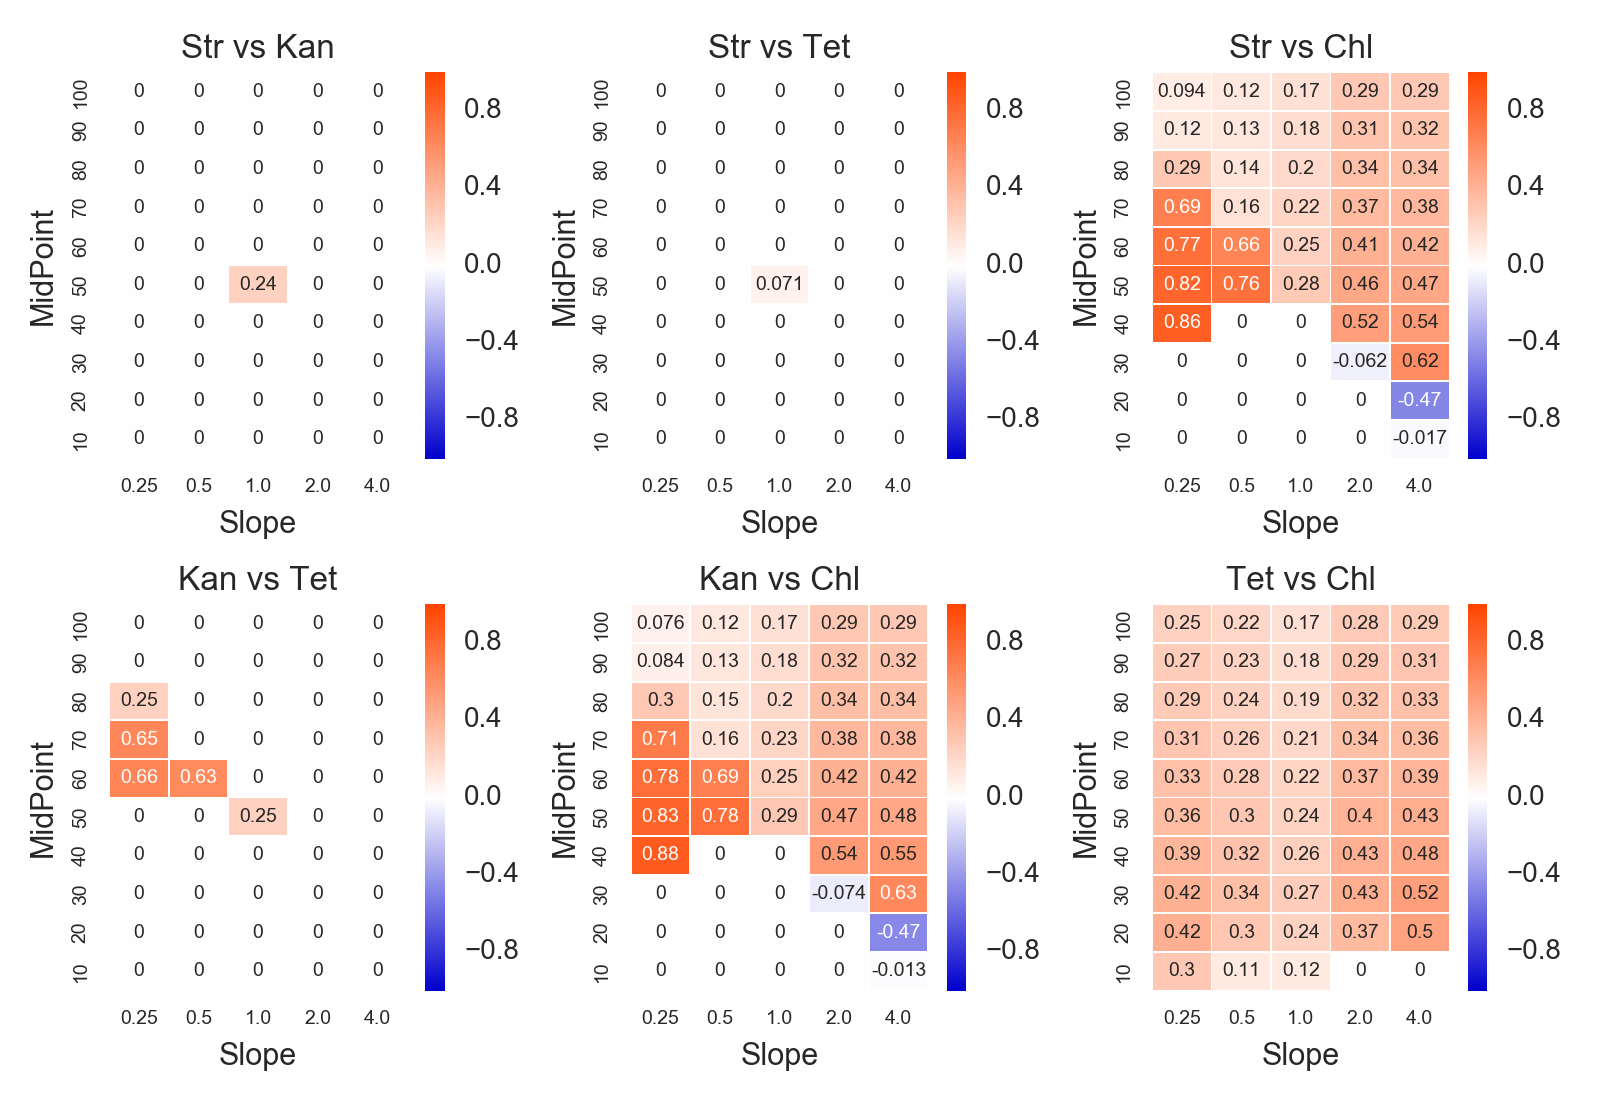
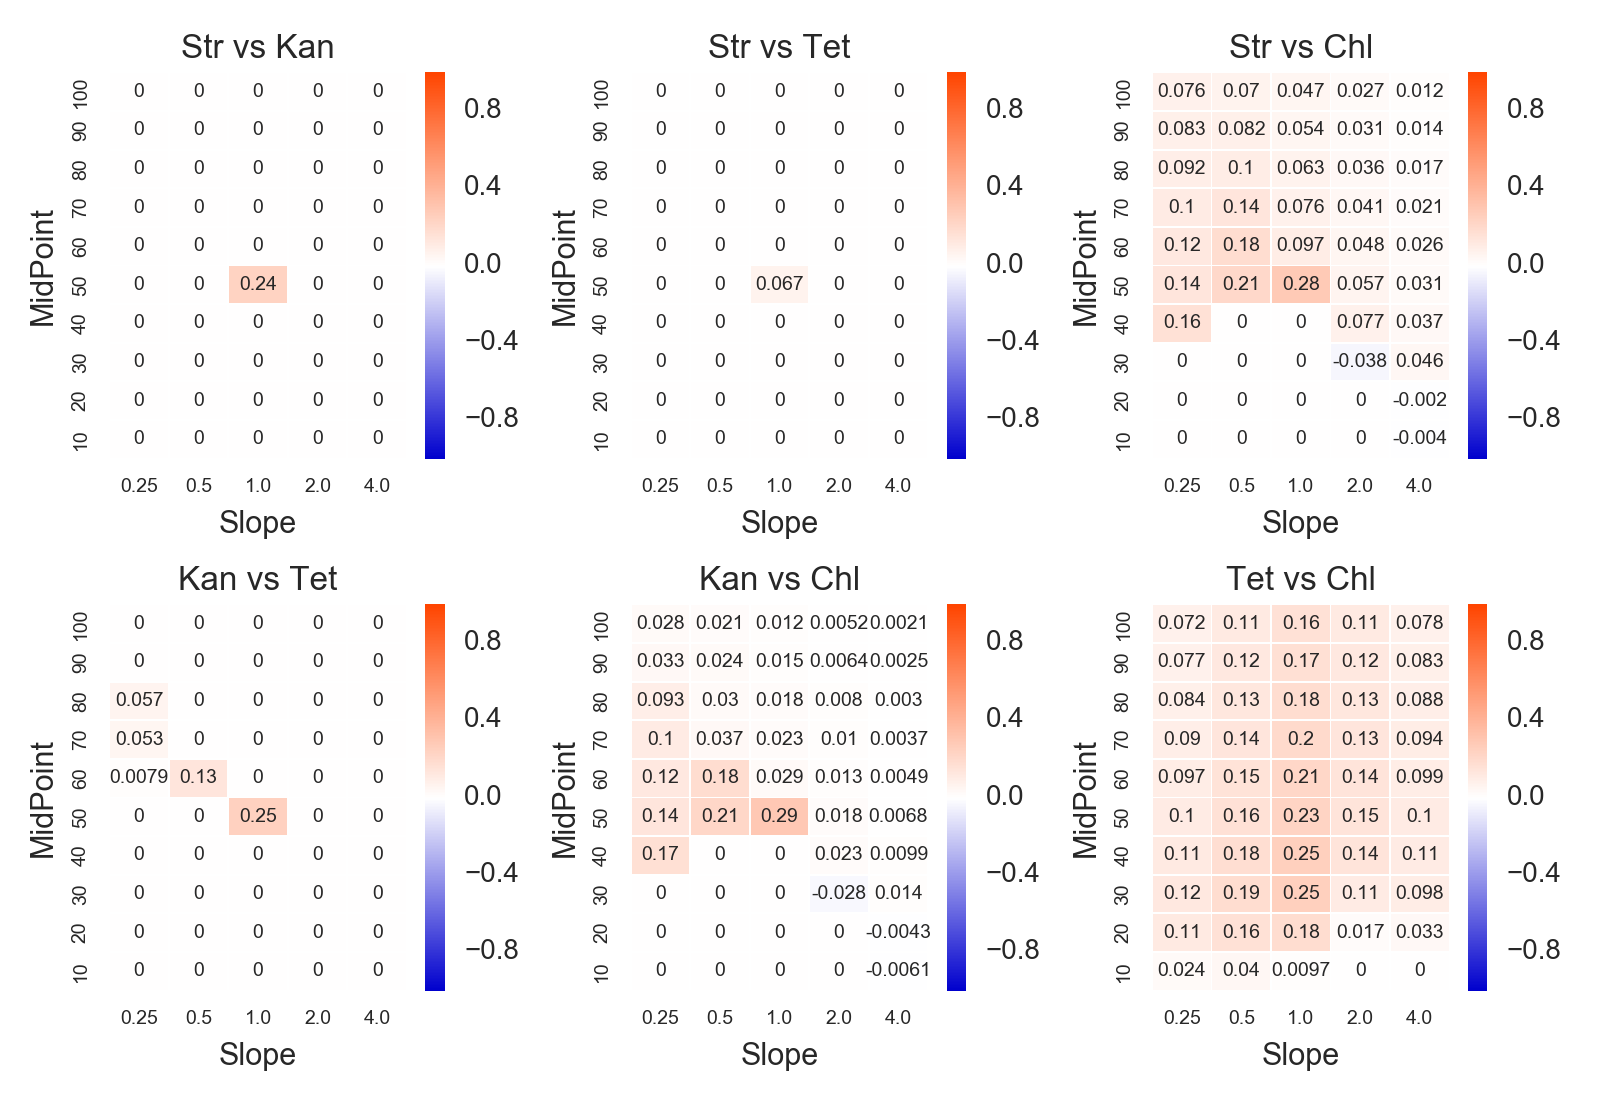
出力の修正

diff --git a/ribo4.py b/ribo4.py
@@ -242,39 +242,38 @@ def checkLinerType(inp, eps_rel, pattern):
     before_type = 0 # -1: <, 0: ==, 1: >
     linertype = 0 # -1: synergistic, 0: additive, 2: antagonistic`
 
-    for i in range(len(dinp)):
-        if abs(dinp[i]) > inp[i] * eps_rel: #
-            if dinp[i] < 0:
-                current_type = -1 # 減少
+    if pattern == 0:
+        for i in range(len(dinp)):
+            if abs(dinp[i]) > inp[i] * eps_rel: #
+                if dinp[i] < 0:
+                    current_type = -1 # 減少
+                else:
+                    current_type = 1 # 増加
             else:
-                current_type = 1 # 増加
-        else:
-            current_type = 0
+                current_type = 0
 
-        if i == 0:
-            before_type = current_type
-        else:
-            if current_type == 0 or before_type == 0 or current_type == before_type:
-                pass
+            if i == 0:
+                before_type = current_type
             else:
-                if pattern == 0:
+                if current_type == 0 or before_type == 0 or current_type == before_type:
+                    pass
+                else:
                     linerList = np.linspace(inp[0], inp[-1], len(inp)) # 両端点を線形で結んだList
                     linertype = linerList[i] - inp[i] #
 
-                elif pattern == 1:
-                    if inp[0] > inp[-1]:
-                        inp_min = inp[-1]
-                        inp_max = inp[0]
-                    else:
-                        inp_min = inp[0]
-                        inp_max = inp[-1]
-                    if current_type == -1: # synergistic
-                        linertype = inp_min - inp[i]
-                    else: # antagonistic
-                        linertype = inp_max - inp[i]
+                    return linertype
+                    break
 
-                return linertype
-                break
+    elif pattern == 1:
+        upper_bound = max(inp[0], inp[-1])
+        lower_bound = min(inp[0], inp[-1])
+        max_inp = max(inp)
+        min_inp = min(inp)
+        if max_inp > upper_bound:
+            linertype = upper_bound - max_inp
+        elif min_inp < lower_bound:
+            linertype = lower_bound - min_inp
+
     return linertype
 
 
@@ -321,7 +320,6 @@ if __name__ == "__main__":
 
 
     # 0: 新たな判定を入れたヒートマップの作成
-    """
     drug_comb = list(itr.combinations(dNames, 2)) # 薬剤の組み合わせ
     cmap = generate_cmap(["mediumblue", "white", "orangered"])
 
@@ -363,7 +361,6 @@ if __name__ == "__main__":
     plt.tight_layout()
     plt.savefig(savename, dpi=200)
     plt.close()
-    """
 
     # 1 : hetmap_IC30を再作成
     """
@@ -462,8 +459,9 @@ if __name__ == "__main__":
     """
 
     # 3 : 個別に気になる部分をLine Chartを作成
-    drug_comb = [["Kanamycin", "Tetracycline"], ["Streptmycin", "Chloramphenicol"], ["Kanamycin", "Chloramphenicol"]] # 薬剤の組み合わせ
-    slope_list = [1./4, 4.0, 4.0]
+    """
+    drug_comb = [["Streptmycin", "Chloramphenicol"], ["Kanamycin", "Chloramphenicol"]] # 薬剤の組み合わせ
+    slope_list = [0.25, 0.25]
 
     plt.figure(figsize=(15, 9))
 
@@ -473,7 +471,7 @@ if __name__ == "__main__":
         pointY = np.linspace(0, IC30[dList[1]] * 2, 11)
         midPointList = [[pointX[i]/2, pointY[i]/2] for i in range(len(pointX)) if i > 0] # 中点のリスト
         slope = slope_list[index]
-        
+
         result_list = []
         for pCount, midPoint in enumerate(midPointList): #
             doseX = np.linspace(0, midPoint[0] * (1 + slope), 11)
@@ -499,3 +497,4 @@ if __name__ == "__main__":
         plt.tight_layout()
         plt.savefig(savename, dpi=200)
         plt.close()
+    """
